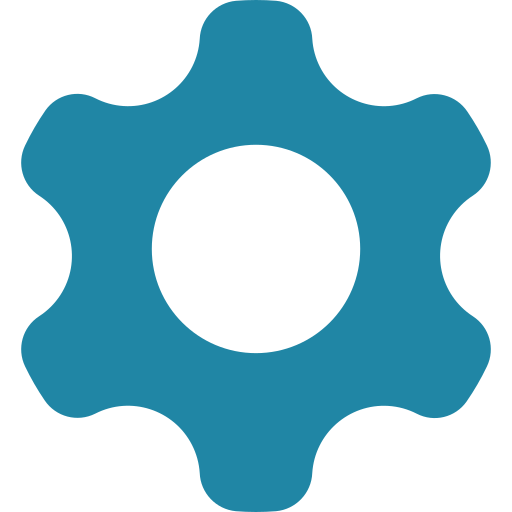
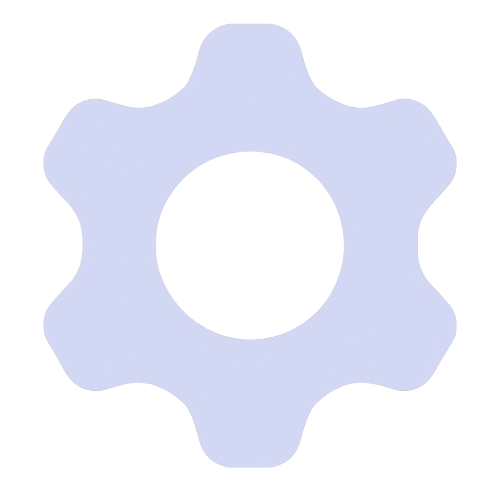
style (atualização das cores do app, adição de views para simulação da posição dos botoes config e config musica)

diff --git a/src/components/Barra.js b/src/components/Barra.js
@@ -4,13 +4,13 @@ import { View, StyleSheet, Text } from "react-native"
 export default function Barra() {
   return (
     <View style={styles.container}>
-      <View style={styles.subContainer}>
+      <View style={styles.atual}>
         <Text style={styles.texto}>pomodoro</Text>
       </View>
-      <View style={styles.subContainer}>
+      <View style={styles.regular}>
         <Text style={styles.texto}>pausa curta</Text>
       </View>
-      <View style={styles.subContainer}>
+      <View style={styles.regular}>
         <Text style={styles.texto}>pausa longa</Text>
       </View>
     </View>
@@ -20,18 +20,26 @@ export default function Barra() {
 const styles = StyleSheet.create({
   container: {
     flexDirection: "row",
-    backgroundColor: "#fff",
+    backgroundColor: "#141A31",
     padding: 3,
     borderRadius: 50,
   },
-  subContainer: {
+  regular: {
     padding: 10,
-    backgroundColor: "#348974",
+    backgroundColor: "#141A31",
+    borderRadius: 50,
+    marginLeft: 2,
+    marginRight: 2,
+  },
+  atual: {
+    padding: 10,
+    backgroundColor: "#72F3F7",
     borderRadius: 50,
     marginLeft: 2,
     marginRight: 2,
   },
   texto: {
+    color: "#D9E0F7",
     fontWeight: "bold",
   },
 })

diff --git a/src/components/Configurar.js b/src/components/Configurar.js
@@ -18,10 +18,8 @@ export default function Configurar() {
 
 const styles = StyleSheet.create({
   container: {
-    flex: 1,
     flexDirection: "row",
     justifyContent: "space-around",
-    backgroundColor: "#000",
     padding: 3,
   },
   imagem: {

diff --git a/App.js b/App.js
@@ -27,7 +27,7 @@ export default function App() {
 const styles = StyleSheet.create({
   container: {
     flex: 1,
-    backgroundColor: "#000",
+    backgroundColor: "#1E2240",
     alignItems: "center",
   },
   containerTitulo: {

diff --git a/src/components/Titulo.js b/src/components/Titulo.js
@@ -8,7 +8,7 @@ export default function Titulo() {
 
 const style = StyleSheet.create({
   titulo: {
-    color: "#fff",
+    color: "#D9E0F7",
     fontSize: 30,
     fontWeight: "bold",
   },
